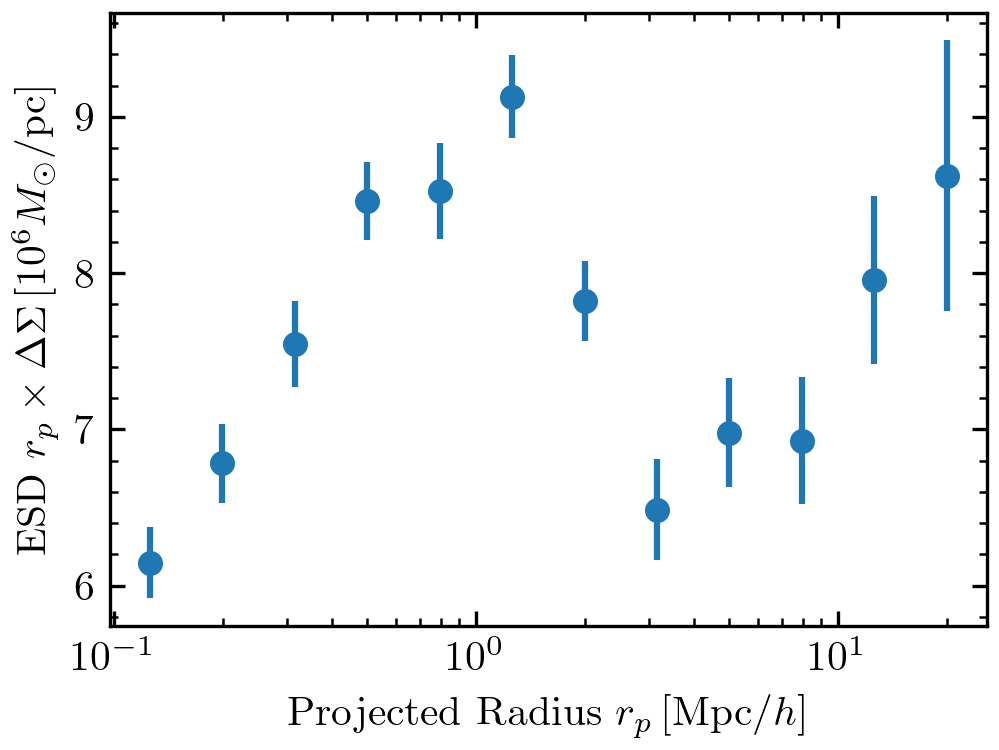
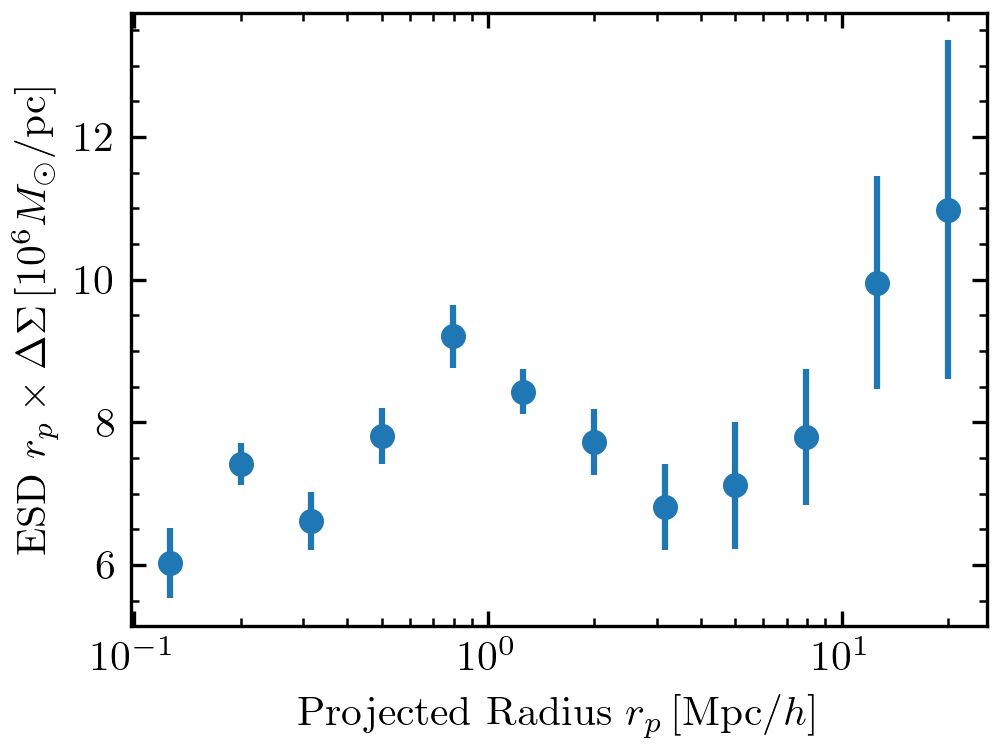
revamp quickstart (#19)

Pull request: revamp quickstart
In response to https://github.com/pyOpenSci/software-submission/issues/312, this PR updates the quickstart by breaking it up into smaller code blocks and making it more self-contained. Also, the DOI now appears in the README.

**AI Disclaimer**: Claude Sonnet 4.6 was used for light edits on existing text.

diff --git a/docs/start/quickstart.rst b/docs/start/quickstart.rst
@@ -1,44 +1,65 @@
 Quickstart
 ==========
 
-In this quick example, we will calculate the lensing amplitude around galaxies in `BOSS <https://data.sdss.org/sas/dr12/boss/lss/>`_ in the redshift range :math:`0.2 < z_l < 0.4`. Let's use the publicly available DECADE catalog for this task (see :doc:`../applications/decade`).
+In this quick example, we will calculate the lensing amplitude around galaxies in `Baryon Oscillation Spectroscopic Survey (BOSS) <https://data.sdss.org/sas/dr12/boss/lss/>`_ in the redshift range :math:`0.2 < z_l < 0.4` with the final release of the `Kilo Degree Survey (KiDS) <https://kids.strw.leidenuniv.nl/DR5/legacy_wl.php>`_. We start by downloading and processing the publicly available data. Note that the KiDS files alone are around 7 GB, so this may take a while.
 
 .. code-block:: python
 
-    import matplotlib.pyplot as plt
-    import numpy as np
+    from urllib.request import urlretrieve
+
     from astropy.table import Table
+    from dsigma.scripts.process_kids_legacy import process_kids_legacy
 
-    from dsigma.jackknife import compute_jackknife_fields, jackknife_resampling
-    from dsigma.precompute import precompute
-    from dsigma.stacking import excess_surface_density
-
-    # Import lenses and cut to redshift range.
-    table_l = Table.read('galaxy_DR12v5_CMASSLOWZTOT_North.fits.gz')
+    # Download the BOSS data.
+    filename = "galaxy_DR12v5_CMASSLOWZTOT_North.fits.gz"
+    urlretrieve(f"https://data.sdss.org/sas/dr12/boss/lss/{filename}", filename)
+    table_l = Table.read(filename)
     for key in ['Z', 'RA', 'DEC']:
         table_l.rename_column(key, key.lower())
     table_l['w_sys'] = 1
     table_l = table_l[(0.2 < table_l['z']) & (table_l['z'] < 0.4)]
+    table_l.keep_columns(['ra', 'dec', 'z', 'w_sys'])
 
-    # Load source galaxies and their redshift calibration.
-    table_s = Table.read('decade_ngc.hdf5', path='catalog')
-    table_n = Table.read('decade_ngc.hdf5', path='calibration')
+    # Download and process the KiDS data.
+    for filename in ["KiDS_Legacy_NS_unblind_final.fits.gz",
+                     "KiDZ_Legacy_unblind_final.fits"]:
+        urlretrieve(f"https://kids.strw.leidenuniv.nl/DR5/data_files/{filename}",
+                    filename)
+    process_kids_legacy()
+    table_s = Table.read('kids_legacy.hdf5', path='catalog')
+    table_n = Table.read('kids_legacy.hdf5', path='calibration')
 
-    # Run the expensive precomputation.
-    rp_bins = np.logspace(-1, 1.4, 13)
+The most computationally demanding step is the precomputation, where ``dsigma`` sums up contributions from lensed source galaxies around each lens. The result is stored directly in ``table_l``. This is the most computationally demanding part of the process.
+
+.. code-block:: python
+
+    import numpy as np
+    from astropy import units as u
+    from astropy.cosmology import units as cu
+    from dsigma.precompute import precompute
+
+    rp_bins = np.logspace(-1, 1.4, 13) * u.Mpc / cu.littleh
     precompute(table_l, table_s, rp_bins, table_n=table_n, progress_bar=True)
 
-    # Calculate the signal.
-    kwargs = dict(scalar_shear_response_correction=True,
-                  matrix_shear_response_correction=True)
-    results = excess_surface_density(table_l, return_table=True, n_jobs=8, **kwargs)
+With the precomputation complete, we stack the signal across all lenses and use jackknife resampling to estimate uncertainties.
 
-    # Calculate errors using jackknife resampling.
+.. code-block:: python
+
+    from dsigma.jackknife import compute_jackknife_fields, jackknife_resampling
+    from dsigma.stacking import excess_surface_density
+
     compute_jackknife_fields(table_l, 100)
+    kwargs = dict(scalar_shear_response_correction=True)
+    results = excess_surface_density(table_l, return_table=True, **kwargs)
     results['ds_err'] = np.sqrt(np.diag(jackknife_resampling(
         excess_surface_density, table_l, **kwargs)))
 
-    # Plot the results.
+Finally, we plot the result using ``matplotlib``.
+
+.. code-block:: python
+
+    import matplotlib.pyplot as plt
+
     rp = np.sqrt(results['rp_min'] * results['rp_max'])
     plt.errorbar(rp, rp * results['ds'], yerr=rp * results['ds_err'], fmt='o',
                  ms=5)
@@ -50,4 +71,4 @@ In this quick example, we will calculate the lensing amplitude around galaxies i
    :width: 80 %
    :align: center
 
-For more details, refer to the workflow and application pages.
+For more details on each step, refer to the workflow and application pages.

diff --git a/README.md b/README.md
@@ -1,3 +1,5 @@
+<div align="center">
+
 ![logo](https://raw.githubusercontent.com/johannesulf/dsigma/main/docs/dsigma.png)
 
 [![Unit Testing Status](https://img.shields.io/github/actions/workflow/status/johannesulf/dsigma/tests.yml?branch=main&label=tests)](https://github.com/johannesulf/dsigma/actions)
@@ -7,6 +9,9 @@
 ![Python Version from PEP 621 TOML](https://img.shields.io/python/required-version-toml?tomlFilePath=https%3A%2F%2Fraw.githubusercontent.com%2Fjohannesulf%2Fdsigma%2Frefs%2Fheads%2Fmain%2Fpyproject.toml)
 ![PyPI - Version](https://img.shields.io/pypi/v/dsigma)
 [![License: MIT](https://img.shields.io/github/license/johannesulf/dsigma?color=blue)](https://raw.githubusercontent.com/johannesulf/dsigma/main/LICENSE)
+[![DOI](https://zenodo.org/badge/DOI/10.5281/zenodo.20378643.svg)](https://doi.org/10.5281/zenodo.20378643)
+
+</div>
 
 ``dsigma`` is an easy-to-use Python package for measuring gravitational galaxy-galaxy lensing. Using a lensing catalog, it estimates excess surface density around a population of lenses, such as galaxies in the Sloan Digital Sky Survey or the Baryon Oscillation Spectroscopic Survey. It has a flexible API and can utilize data from, DECADE, the Dark Energy Survey (DES), the Kilo-Degree Survey (KiDS), and the Hyper Suprime-Cam (HSC) lensing surveys, among others. With core computations written in C, ``dsigma`` is very fast. Additionally, ``dsigma`` provides out-of-the-box support for estimating covariances with jackknife resampling and calculating various summary statistics.
 

diff --git a/docs/applications/intro.rst b/docs/applications/intro.rst
@@ -11,7 +11,6 @@ The BOSS target catalogs are publicly available from the `SDSS data server <http
 
 .. code-block:: python
 
-    import numpy as np
     from astropy.table import Table, vstack
 
     table_l = vstack([Table.read('galaxy_DR12v5_CMASSLOWZTOT_South.fits.gz'),